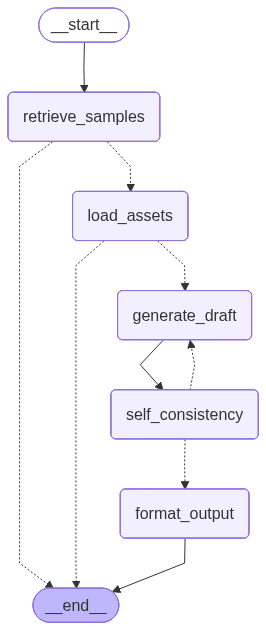
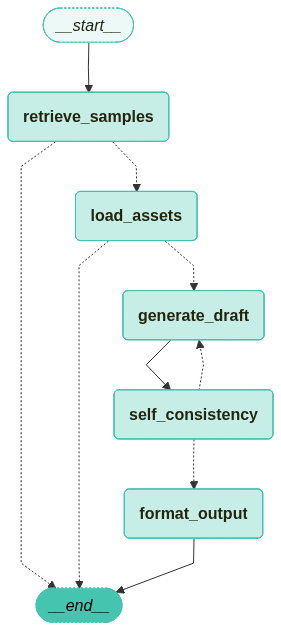
refactor: mmd 제거, utils.visualize만 사용
- mmd 파일 절대 생성 금지 규칙 추가 (개발 규칙 문서)
- save_graph_png() to utils/visualize.py
- portfolio/writer graph.py: utils.save_graph_png 사용
- portfolio_graph.mmd, writer_graph.mmd 삭제

Made-with: Cursor

diff --git a/src/utils/visualize.py b/src/utils/visualize.py
@@ -2,8 +2,8 @@
 
 import random
 from dataclasses import dataclass
+from pathlib import Path
 
-from IPython.display import Image, display
 from langgraph.graph.state import CompiledStateGraph
 
 
@@ -23,9 +23,7 @@ class NodeStyles:
 def visualize_graph(graph, xray=False, ascii=False):
     """
     CompiledStateGraph 객체를 시각화하여 표시합니다.
-
-    이 함수는 주어진 그래프 객체가 CompiledStateGraph 인스턴스인 경우
-    해당 그래프를 Mermaid 형식의 PNG 이미지로 변환하여 표시합니다.
+    Jupyter 환경에서 IPython.display 사용. 그 외에는 ASCII 출력.
 
     Args:
         graph: 시각화할 그래프 객체. CompiledStateGraph 인스턴스여야 합니다.
@@ -34,6 +32,8 @@ def visualize_graph(graph, xray=False, ascii=False):
     """
     if not ascii:
         try:
+            from IPython.display import Image, display
+
             if isinstance(graph, CompiledStateGraph):
                 display(
                     Image(
@@ -43,15 +43,47 @@ def visualize_graph(graph, xray=False, ascii=False):
                         )
                     )
                 )
+        except ImportError:
+            print(graph.get_graph(xray=xray).draw_ascii())
         except Exception as e:
-            print(f"그래프 시각화 실패 (추가 종속성 필요): {e}")
-            print("ASCII로 그래프 표시:")
+            print(f"그래프 시각화 실패: {e}")
             try:
                 print(graph.get_graph(xray=xray).draw_ascii())
             except Exception as ascii_error:
                 print(f"ASCII 표시도 실패: {ascii_error}")
     else:
         print(graph.get_graph(xray=xray).draw_ascii())
+
+
+def save_graph_png(graph, output_path: str | Path, xray: bool = False) -> bool:
+    """CompiledStateGraph를 PNG 파일로 저장.
+
+    Args:
+        graph: CompiledStateGraph 인스턴스
+        output_path: 저장 경로 (str 또는 Path)
+        xray: 그래프 내부 상태 표시 여부
+
+    Returns:
+        성공 시 True, 실패 시 False
+    """
+    path = Path(output_path)
+    path.parent.mkdir(parents=True, exist_ok=True)
+    try:
+        if isinstance(graph, CompiledStateGraph):
+            graph.get_graph(xray=xray).draw_mermaid_png(
+                output_file_path=str(path),
+                background_color="white",
+                node_colors=NodeStyles(),
+            )
+            print("PNG written to", path)
+            return True
+    except Exception as e:
+        print(f"PNG export failed (network required for Mermaid.ink API): {e}")
+        try:
+            print(graph.get_graph(xray=xray).draw_ascii())
+        except Exception as ascii_error:
+            print(f"ASCII 표시도 실패: {ascii_error}")
+    return False
 
 
 def generate_random_hash():

diff --git a/src/graphs/writer_graph/graph.py b/src/graphs/writer_graph/graph.py
@@ -4,6 +4,8 @@ from pathlib import Path
 
 from langgraph.graph import END, START, StateGraph
 
+from src.utils.visualize import save_graph_png
+
 from .edge import after_load_assets, after_retrieve_samples, after_self_consistency
 from .node import format_output, generate_draft, load_assets, retrieve_samples, self_consistency
 from .state import WriterState
@@ -54,10 +56,4 @@ def build_writer_graph():
 if __name__ == "__main__":
     # 프로젝트 루트에서 실행: python -m src.graphs.writer_graph.graph
     compiled = build_writer_graph()
-    out_png = Path("docs/writer_graph.png")
-    out_png.parent.mkdir(parents=True, exist_ok=True)
-    try:
-        compiled.get_graph().draw_mermaid_png(output_file_path=str(out_png))
-        print("PNG written to", out_png)
-    except Exception as e:
-        print("PNG export failed (network required for Mermaid.ink API):", e)
+    save_graph_png(compiled, Path("docs/writer_graph.png"))

diff --git a/src/graphs/portfolio_graph/graph.py b/src/graphs/portfolio_graph/graph.py
@@ -4,6 +4,8 @@ from pathlib import Path
 
 from langgraph.graph import END, START, StateGraph
 
+from src.utils.visualize import save_graph_png
+
 from .edge import after_self_consistency
 from .node import (
     build_portfolio,
@@ -48,12 +50,5 @@ def build_portfolio_graph():
 
 if __name__ == "__main__":
     # 프로젝트 루트에서 실행: python -m src.graphs.portfolio_graph.graph
-    # 컴파일된 그래프를 PNG로 저장 (노드 아님, main 전용)
     compiled = build_portfolio_graph()
-    out_png = Path("docs/portfolio_graph.png")
-    out_png.parent.mkdir(parents=True, exist_ok=True)
-    try:
-        compiled.get_graph().draw_mermaid_png(output_file_path=str(out_png))
-        print("PNG written to", out_png)
-    except Exception as e:
-        print("PNG export failed (network required for Mermaid.ink API):", e)
+    save_graph_png(compiled, Path("docs/portfolio_graph.png"))

diff --git a/src/utils/__init__.py b/src/utils/__init__.py
@@ -3,7 +3,8 @@
 from .visualize import (
     NodeStyles,
     generate_random_hash,
+    save_graph_png,
     visualize_graph,
 )
 
-__all__ = ["NodeStyles", "visualize_graph", "generate_random_hash"]
+__all__ = ["NodeStyles", "save_graph_png", "visualize_graph", "generate_random_hash"]

diff --git a/docs/AUTOFOLIO_개발_규칙.md b/docs/AUTOFOLIO_개발_규칙.md
@@ -1,0 +1,3 @@
+# Autofolio 개발 규칙
+
+**그래프 시각화:** **mmd 파일 절대 생성 금지.** `src.utils.visualize`의 `.py`만 사용 (`save_graph_png`, `visualize_graph`).
